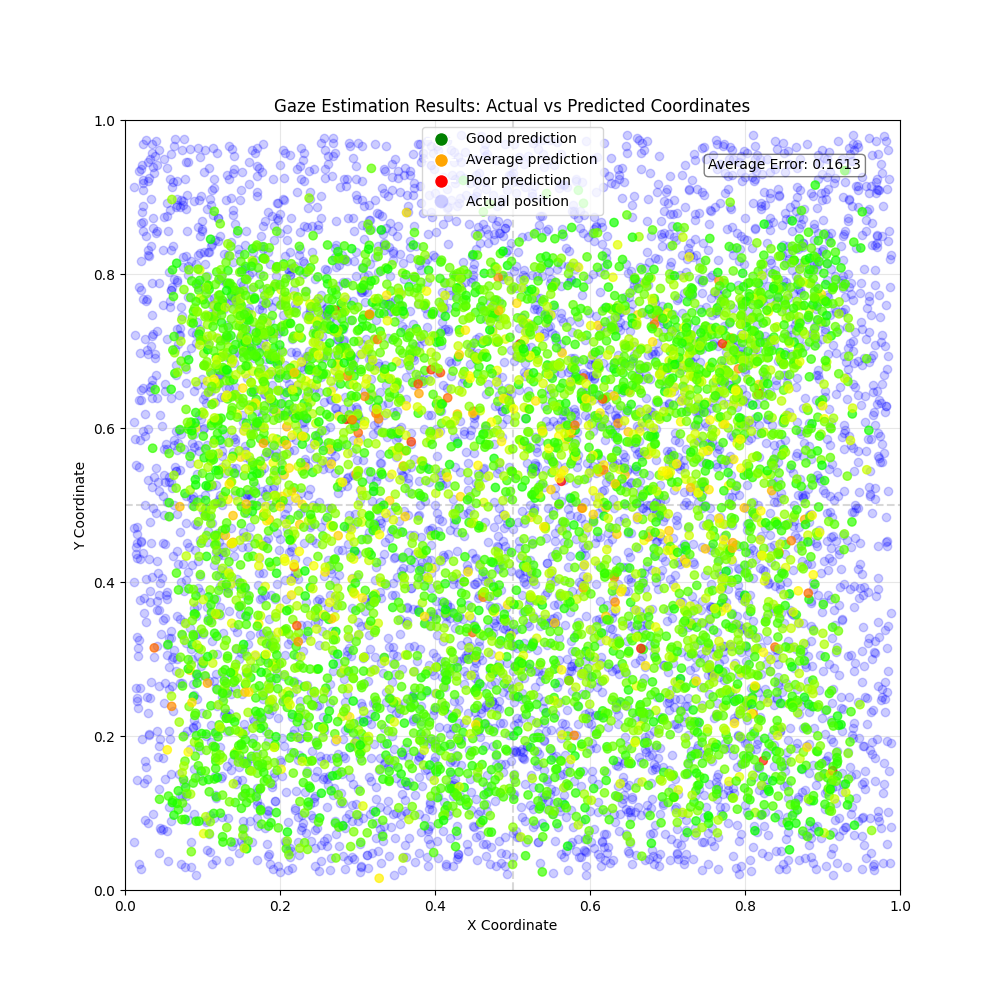
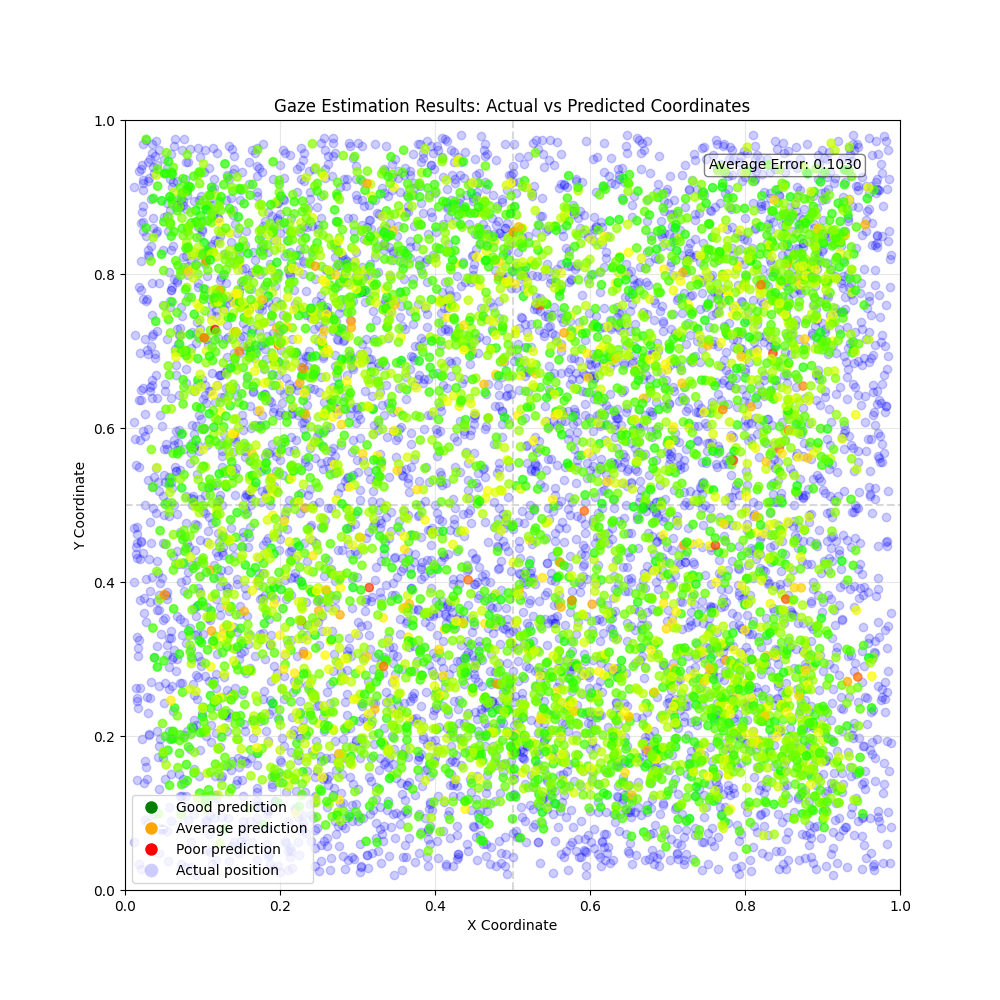
Unet

diff --git a/model.py b/model.py
@@ -1,53 +1,105 @@
 import torch
 import torch.nn as nn
+import torch.nn.functional as F
 
 class Model(nn.Module):
-    def __init__(self):
+    def __init__(self, tau=1.0):
         super().__init__()
-        self.pass_1 = nn.Sequential( 
-            nn.Conv2d(3, 16, kernel_size=3, stride=1, padding=1), # 224x224x3 -> 224x224x16
-            nn.ReLU(),
-            nn.MaxPool2d(kernel_size=2, stride=2), # 224x224x16 -> 112x112x16
-            nn.Conv2d(16, 32, kernel_size=3, stride=1, padding=1), # 112x112x16 -> 112x112x32
-            nn.ReLU(),
-            nn.MaxPool2d(kernel_size=2, stride=2), # 112x112x32 -> 56x56x32
+        self.tau = tau
+
+        # Encoder
+        self.encoder_1 = nn.Sequential(
+            nn.Conv2d(3, 16, 3, padding=1), nn.ReLU(inplace=True),
+            nn.Conv2d(16, 16, 3, padding=1), nn.ReLU(inplace=True),
+        )
+        self.pool_1 = nn.MaxPool2d(2)
+
+        self.encoder_2 = nn.Sequential(
+            nn.Conv2d(16, 32, 3, padding=1), nn.ReLU(inplace=True),
+            nn.Conv2d(32, 32, 3, padding=1), nn.ReLU(inplace=True),
+        )
+        self.pool_2 = nn.MaxPool2d(2)
+
+        self.encoder_3 = nn.Sequential(
+            nn.Conv2d(32, 64, 3, padding=1), nn.ReLU(inplace=True),
+            nn.Conv2d(64, 64, 3, padding=1), nn.ReLU(inplace=True),
+        )
+        self.pool_3 = nn.MaxPool2d(2)
+
+        self.encoder_4 = nn.Sequential(
+            nn.Conv2d(64, 128, 3, padding=1), nn.ReLU(inplace=True),
+            nn.Conv2d(128, 128, 3, padding=1), nn.ReLU(inplace=True),
+        )
+        self.pool_4 = nn.MaxPool2d(2)
+
+        # Bottleneck
+        self.bottleneck = nn.Sequential(
+            nn.Conv2d(128, 256, 3, padding=1), nn.ReLU(inplace=True),
+            nn.Conv2d(256, 256, 3, padding=1), nn.ReLU(inplace=True),
         )
 
-        self.pass_2 = nn.Sequential(
-            nn.Conv2d(32, 64, kernel_size=3, stride=1, padding=1), # 56x56x32 -> 56x56x64
-            nn.ReLU(),
-            nn.MaxPool2d(kernel_size=2, stride=2), # 56x56x64 -> 28x28x64
-            nn.Conv2d(64, 128, kernel_size=3, stride=1, padding=1), # 28x28x64 -> 28x28x128
-            nn.ReLU(),
-            nn.MaxPool2d(kernel_size=2, stride=2), # 28x28x128 -> 14x14x128
+        # Decoder (transpose conv + convs after skip concat)
+        self.up_3 = nn.ConvTranspose2d(256, 128, kernel_size=2, stride=2)
+        self.decoder_3 = nn.Sequential(
+            nn.Conv2d(128 + 128, 128, 3, padding=1), nn.ReLU(inplace=True),
+            nn.Conv2d(128, 128, 3, padding=1), nn.ReLU(inplace=True),
         )
-        
-        # For 224x224 input, the feature map size after pass_2 will be 14x14x128
-        self.fc = nn.Sequential(
-            nn.Flatten(),
-            nn.Linear(128 * 14 * 14, 512),  # Reduced complexity
-            nn.BatchNorm1d(512),
-            nn.ReLU(),
-            nn.Dropout(0.3),  # Increased dropout
-            nn.Linear(512, 256),
-            nn.BatchNorm1d(256),
-            nn.ReLU(),
-            nn.Dropout(0.2),  # Increased dropout
-            nn.Linear(256, 64),
-            nn.ReLU(),
-            nn.Dropout(0.1),  # Increased dropout
-            nn.Linear(64, 2)  # Output x, y coordinates
+
+        self.up_2 = nn.ConvTranspose2d(128, 64, kernel_size=2, stride=2)
+        self.decoder_2 = nn.Sequential(
+            nn.Conv2d(64 + 64, 64, 3, padding=1), nn.ReLU(inplace=True),
+            nn.Conv2d(64, 64, 3, padding=1), nn.ReLU(inplace=True),
         )
-    
-    def forward(self, x):
-        x = self.pass_1(x)
-        x = self.pass_2(x)
-        x = self.fc(x)
-        x = torch.sigmoid(x)  # Apply sigmoid to normalize output to [0,1]
-        return x
-    
+
+        self.up_1 = nn.ConvTranspose2d(64, 32, kernel_size=2, stride=2)
+        self.decoder_1 = nn.Sequential(
+            nn.Conv2d(32 + 32, 32, 3, padding=1), nn.ReLU(inplace=True),
+            nn.Conv2d(32, 32, 3, padding=1), nn.ReLU(inplace=True),
+        )
+
+        self.up_0 = nn.ConvTranspose2d(32, 16, kernel_size=2, stride=2)
+        self.decoder_0 = nn.Sequential(
+            nn.Conv2d(16 + 16, 16, 3, padding=1), nn.ReLU(inplace=True),
+            nn.Conv2d(16, 16, 3, padding=1), nn.ReLU(inplace=True),
+        )
+
+        # Heatmap head and soft-argmax to (x,y) in [0,1]
+        self.out_conv = nn.Conv2d(16, 1, kernel_size=1)
+
+    def forward(self, x, return_heatmap=False):
+        # Encoder
+        e1 = self.encoder_1(x)            # H x W
+        p1 = self.pool_1(e1)              # H/2
+        e2 = self.encoder_2(p1)           # H/2
+        p2 = self.pool_2(e2)              # H/4
+        e3 = self.encoder_3(p2)           # H/4
+        p3 = self.pool_3(e3)              # H/8
+        e4 = self.encoder_4(p3)           # H/8
+        p4 = self.pool_4(e4)              # H/16
+
+        b  = self.bottleneck(p4)          # H/16
+
+        # Decoder with skips
+        u3 = self.up_3(b)                 # H/8
+        d3 = self.decoder_3(torch.cat([u3, e4], dim=1))
+
+        u2 = self.up_2(d3)                # H/4
+        d2 = self.decoder_2(torch.cat([u2, e3], dim=1))
+
+        u1 = self.up_1(d2)                # H/2
+        d1 = self.decoder_1(torch.cat([u1, e2], dim=1))
+
+        u0 = self.up_0(d1)                # H
+        d0 = self.decoder_0(torch.cat([u0, e1], dim=1))
+
+        heatmap = self.out_conv(d0)       # (N,1,H,W)
+        print('heatmap', heatmap)
+        coords = torch.argmax(heatmap)  # (N,2) in [0,1]
+
+        return (coords, heatmap) if return_heatmap else coords
+
     def save_model(self, path):
         torch.save(self.state_dict(), path)
-    
-    def load_model(self, path):
-        self.load_state_dict(torch.load(path))
+
+    def load_model(self, path, map_location=None):
+        self.load_state_dict(torch.load(path, map_location=map_location))

diff --git a/train.py b/train.py
@@ -369,7 +369,7 @@ def main():
         model.load_model("best_model.pth")
     
     # Define loss function and optimizer with weight decay for regularization
-    criterion = nn.L1Loss()
+    criterion = nn.MSELoss()
     optimizer = optim.Adam(model.parameters(), lr=0.001, weight_decay=1e-4)
     
     try:
